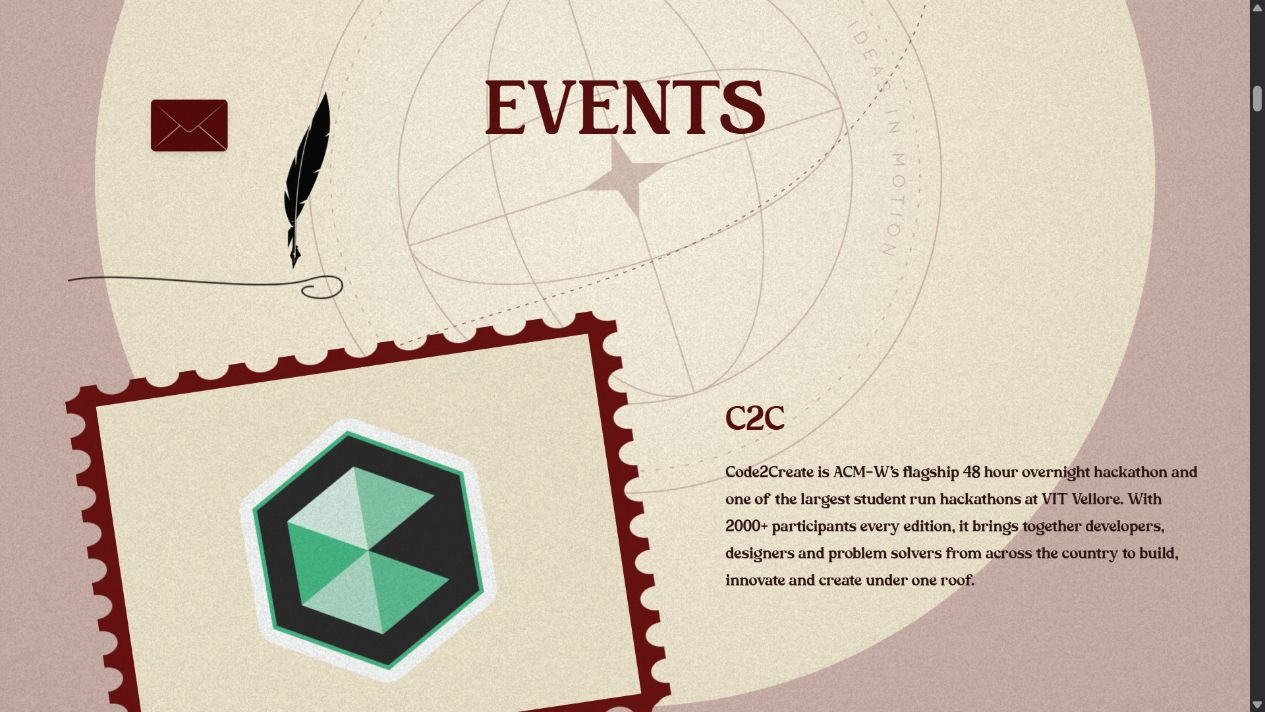
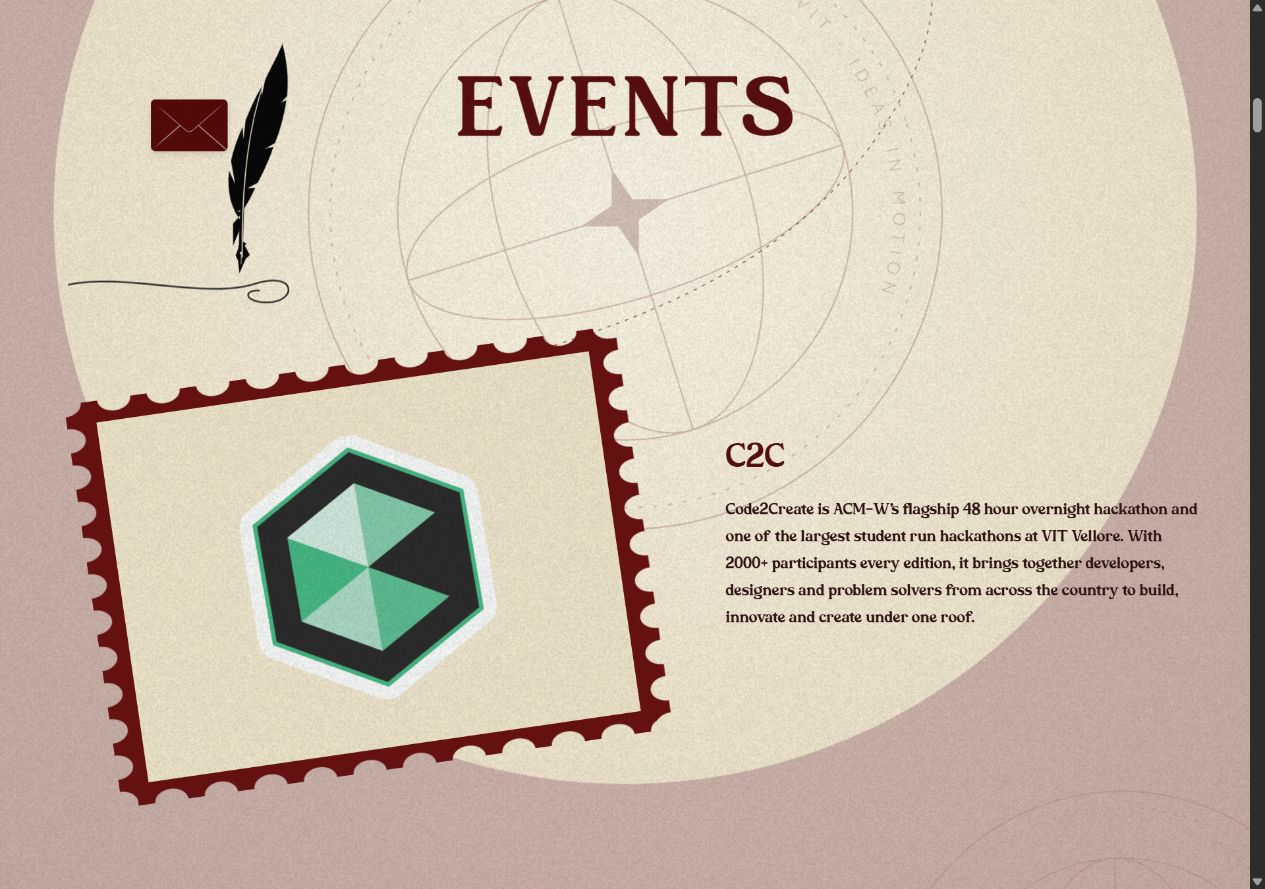
style: strengthen Events typography and enlarge the quill
Increase the desktop heading to 64-80px, add consistent 0.06em letter spacing across fixed letters and rolling dials, and reinforce the existing bold face with a subtle text stroke. Scale the quill up by roughly 30 percent with more breathing room before the first event card.

Constrain the enlarged blade sweep beside the measured title on desktop, and place it fully below the heading on compact layouts. Attach the completed quill sequence to ScrollTrigger so breakpoint changes initialize its current scroll pose. Keep card animations and dial timing unchanged.

Validation: ESLint, TypeScript/Vite build and git diff checks pass; existing bundle-size warning remains. Reviewed 320px, 390px, 820px and 1280px layouts for title fit and feather clearance. Browser console has no errors; refresh desktop and mobile proof images.

diff --git a/src/components/EventsQuill.tsx b/src/components/EventsQuill.tsx
@@ -84,16 +84,20 @@ export default function EventsQuill() {
         const frame = journey.getBoundingClientRect();
         const title = heading.getBoundingClientRect();
         const width = frame.width;
-        const height = title.height + 370;
+        const height = title.height + 430;
         // Local SVG canvas bounds the ink repaint; geometry is independent of scroll.
         svg.style.top = `${title.top - frame.top - 100}px`;
         svg.style.height = `${height}px`;
         svg.setAttribute('viewBox', `0 0 ${width} ${height}`);
-        scale = compact ? Math.min(.21, width / 2300) : Math.min(.34, Math.max(.26, width / 4000));
+        scale = compact ? Math.min(.27, width / 1800) : Math.min(.44, Math.max(.34, width / 3100));
         const left = compact ? 22 : Math.max(32, Math.min(84, width * .055));
-        const right = compact ? Math.min(260, width * .42) : Math.max(200, Math.min(340, width * .245));
-        const y = 100 + title.height + (compact ? 115 : 125);
         const curl = compact ? 28 : 46;
+        const word = heading.querySelector('.events-title-word')!.getBoundingClientRect();
+        // Reserve the enlarged blade's full sweep beside the wider title.
+        const titleClearance = word.left - frame.left - scale * 335 - curl - 24;
+        const right = compact ? Math.min(260, width * .42) : Math.min(width * .245, 340, titleClearance);
+        // On stacked layouts the whole blade sits below the title, including idle lift.
+        const y = 100 + title.height + (compact ? Math.max(130, scale * 560 + 26) : 125);
         approach.setAttribute('d', `M${-width * .3 - 120},${y + 45} C${-width * .13},${y + 48} ${left - 50},${y - 22} ${left},${y}`);
         stroke.setAttribute('d', `M${left},${y} C${left + 55},${y - 12} ${right - 50},${y + 14} ${right},${y} C${right + curl},${y - 16} ${right + curl},${y + 18} ${right + 15},${y + 18} C${right - 8},${y + 18} ${right - 10},${y + 5} ${right + 7},${y + 6}`);
         entryPoints = samplePath(approach);
@@ -109,20 +113,20 @@ export default function EventsQuill() {
           .to(drift, { x: 2, y: -3, angle: .8, duration: 3.1 })
           .to(drift, { x: -1.8, y: 1.3, angle: -.65, duration: 3.7 })
           .to(drift, { x: 0, y: 0, angle: 0, duration: 3.4 });
-        gsap.timeline({
-          onUpdate: render,
-          scrollTrigger: {
-            trigger: events, start: 'top 95%', end: 'top 8%', scrub: 1.5,
-            invalidateOnRefresh: true,
-            onToggle: self => {
-              scrollActive = self.isActive;
-              pen.style.willChange = scrollActive || idleRunning ? 'transform' : 'auto';
-            },
-          },
-        })
+        const sequence = gsap.timeline({ paused: true, onUpdate: render })
           .to(playhead, { entry: 1, duration: .24, ease: 'sine.inOut' })
           .to(playhead, { ink: 1, duration: .64, ease: 'sine.inOut' })
           .to(playhead, { settle: 1, duration: .22, ease: 'sine.inOut' });
+        // Attach the completed sequence so breakpoint changes initialize at current scroll.
+        ScrollTrigger.create({
+          animation: sequence,
+          trigger: events, start: 'top 95%', end: 'top 8%', scrub: 1.5,
+          invalidateOnRefresh: true,
+          onToggle: self => {
+            scrollActive = self.isActive;
+            pen.style.willChange = scrollActive || idleRunning ? 'transform' : 'auto';
+          },
+        });
       }
       const visibility = new IntersectionObserver(entries => {
         inView = entries.some(entry => entry.isIntersecting);

diff --git a/src/components/EventsTitle.css b/src/components/EventsTitle.css
@@ -1,7 +1,7 @@
-.events-intro { position: relative; padding-bottom: 4rem; }
-.events-title { --dial-row: 1.24em; margin: 0; color: #5b0f0f; font-family: Kovanov, Georgia, serif; font-size: clamp(3.75rem, 6vw, 4.5rem); font-weight: 700; line-height: 1.24; text-align: center; }
-.events-title-word { display: inline-flex; align-items: flex-start; vertical-align: top; }
-.events-title-static { display: block; height: var(--dial-row); }
+.events-intro { position: relative; padding-bottom: 5rem; }
+.events-title { --dial-row: 1.24em; --title-tracking: .06em; margin: 0; color: #5b0f0f; font-family: Kovanov, Georgia, serif; font-size: clamp(4rem, 6.8vw, 5rem); font-weight: 700; line-height: 1.24; text-align: center; -webkit-text-stroke: .005em currentColor; }
+.events-title-word { display: inline-flex; align-items: flex-start; gap: var(--title-tracking); vertical-align: top; }
+.events-title-static { display: inline-flex; gap: var(--title-tracking); height: var(--dial-row); }
 .events-title-dial { position: relative; display: block; height: var(--dial-row); overflow: hidden; overflow: clip; contain: paint; }
 .events-title-track { display: flex; flex-direction: column; height: calc(var(--dial-row) * 4); transform: translateY(-75%); }
 .events-title-row { position: relative; display: block; flex: 0 0 var(--dial-row); height: var(--dial-row); }
@@ -9,5 +9,5 @@
 .events-title-face--modern { font-family: Quicksand, Arial, sans-serif; font-weight: 400; opacity: 0; transform: scaleX(.9); }
 .events-title-face--serif { font-family: Georgia, serif; font-weight: 400; font-style: italic; opacity: 0; }
 .events-title-face--ornate { font-family: Kovanov, Georgia, serif; font-weight: 700; opacity: 1; }
-@media (max-width: 56.25rem) { .events-intro { padding-bottom: 6.5rem; } }
-@media (max-width: 40rem) { .events-title { font-size: clamp(3.75rem, 12vw, 4.25rem); } }
+@media (max-width: 56.25rem) { .events-intro { padding-bottom: clamp(8.5rem, 18vw, 11rem); } }
+@media (max-width: 40rem) { .events-title { font-size: clamp(3.5rem, 16vw, 4.5rem); } }

diff --git a/src/components/EventsTitle.tsx b/src/components/EventsTitle.tsx
@@ -51,7 +51,7 @@ export default function EventsTitle() {
     <h1 className="events-title" data-events-title>
       <span className="sr-only">EVENTS</span>
       <span className="events-title-word" aria-hidden="true">
-        <span className="events-title-static">EVE</span>
+        <span className="events-title-static">{'EVE'.split('').map((letter, index) => <span key={index}>{letter}</span>)}</span>
         {DIALS.map(({ letter, width }) => <span className="events-title-dial" data-dial key={letter} style={{ width }}>
           <span className="events-title-track" data-dial-track>
             {[0, 1, 2, 3].map(row => <span className="events-title-row" key={row}>
